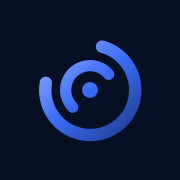
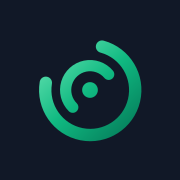
Recolour to slate + emerald
Lighter slate ground with neutral graphite cards and hairline edges, and
emerald as the single accent (dark text on emerald buttons, lighter
emerald for small text). Replaces every navy/blue value: hero light,
workflow canvas, numbers and contact bands, screenshot backdrops, ID
card band, marquee, logo, favicon and touch icon.

Claude-Session: https://claude.ai/code/session_01SNWtLnz7f1kc5WTQmbg5hk

Changed region(s): [[0.1944, 0.2222, 0.8056, 0.8056], [0.3333, 0.3333, 0.6389, 0.6389], [0.4444, 0.4444, 0.5556, 0.5556]]

diff --git a/src/styles/global.css b/src/styles/global.css
@@ -1,23 +1,23 @@
   /* ============================================================
-     TECHYOPS · deep navy
+     TECHYOPS · slate + emerald
      Display: Plus Jakarta Sans · Body: Inter · Mono: JetBrains Mono (self-hosted via Fontsource)
-     Deep navy ground, white text, one royal blue accent, gradient-edge cards.
+     Slate ground, white text, one emerald accent, gradient-edge cards.
      ============================================================ */
   :root{
-    --ink:#070F24; --panel:#0E1A38; --panel-2:#132247; --deep:#1E3A8A;
-    --line:rgba(148,170,230,0.14); --line-strong:rgba(148,170,230,0.26);
-    --text:#F2F5FF; --muted:#9AA6C8;
-    --accent:#3B6CF6; --accent-ink:#8FA8FF; /* accent-ink: blue for text on navy (AA) */
-    --accent-soft:rgba(59,108,246,0.14); --accent-line:rgba(59,108,246,0.45);
-    --on-accent:#FFFFFF;
+    --ink:#111827; --panel:#1A2232; --panel-2:#212B3D; --deep:#047857;
+    --line:rgba(255,255,255,0.08); --line-strong:rgba(255,255,255,0.16);
+    --text:#F3F4F6; --muted:#9CA3AF;
+    --accent:#10B981; --accent-ink:#34D399; /* accent-ink: emerald for small text on slate (AA) */
+    --accent-soft:rgba(16,185,129,0.14); --accent-line:rgba(16,185,129,0.42);
+    --on-accent:#04201A;
     --pos:#34D399; --pos-soft:rgba(52,211,153,0.10); --pos-line:rgba(52,211,153,0.34);
     --neg:#F87171; --neg-soft:rgba(248,113,113,0.10);
     --grid-dot:transparent; --plate-dot:transparent;
-    --float-shadow:rgba(2,6,23,0.7);
-    --shadow-sm:0 1px 2px rgba(2,6,23,.4), 0 1px 0 rgba(255,255,255,.03) inset;
-    --shadow-md:0 2px 4px rgba(2,6,23,.35), 0 18px 40px -16px rgba(2,6,23,.7);
+    --float-shadow:rgba(0,0,0,0.55);
+    --shadow-sm:0 1px 2px rgba(0,0,0,.35), 0 1px 0 rgba(255,255,255,.03) inset;
+    --shadow-md:0 2px 4px rgba(0,0,0,.3), 0 18px 40px -16px rgba(0,0,0,.6);
     /* gradient hairline edge for cards: use as border-box background under a padding-box fill */
-    --edge:linear-gradient(180deg, rgba(255,255,255,.16), rgba(59,108,246,.24) 45%, rgba(255,255,255,.04));
+    --edge:linear-gradient(180deg, rgba(255,255,255,.16), rgba(16,185,129,.16) 45%, rgba(255,255,255,.04));
     --font-display:'Plus Jakarta Sans Variable','Inter Variable',system-ui,sans-serif;
     --font-body:'Inter Variable',system-ui,sans-serif;
     --font-mono:'JetBrains Mono Variable',ui-monospace,monospace;
@@ -28,7 +28,7 @@
   *{box-sizing:border-box; margin:0; padding:0;}
   html{scroll-behavior:smooth; scroll-padding-top:84px;}
   body{
-    background:linear-gradient(180deg, #070F24 0, #0A1530 1400px, #081126 100%) var(--ink); color:var(--text);
+    background:linear-gradient(180deg, #111827 0, #0F1623 1400px, #111827 100%) var(--ink); color:var(--text);
     font-family:var(--font-body);
     font-size:16px; line-height:1.62; overflow-x:hidden;
     -webkit-font-smoothing:antialiased;
@@ -63,7 +63,7 @@
   .content-area{ min-width:0; }
   header{
     position:sticky; top:0; z-index:100;
-    background:rgba(7,15,36,.72); -webkit-backdrop-filter:saturate(180%) blur(12px); backdrop-filter:saturate(180%) blur(12px);
+    background:rgba(17,24,39,.72); -webkit-backdrop-filter:saturate(180%) blur(12px); backdrop-filter:saturate(180%) blur(12px);
     border-bottom:1px solid transparent; transition:border-color .2s;
   }
   header.is-scrolled{ border-bottom-color:var(--line); }
@@ -133,12 +133,12 @@
 
   /* ============ HERO ============ */
   .hero{ padding:28px 0 72px; position:relative; overflow:hidden; overflow:clip; }
-  .hero::before{ /* static royal-blue light behind the workflow + a faint grid that fades out */
+  .hero::before{ /* static emerald light behind the workflow + a faint grid that fades out */
     content:''; position:absolute; inset:0; z-index:0; pointer-events:none;
     background:
-      radial-gradient(55% 65% at 76% 38%, rgba(59,108,246,.30), rgba(30,58,138,.12) 45%, transparent 72%),
-      linear-gradient(rgba(148,170,230,.06) 1px, transparent 1px) 0 0 / 48px 48px,
-      linear-gradient(90deg, rgba(148,170,230,.06) 1px, transparent 1px) 0 0 / 48px 48px;
+      radial-gradient(55% 65% at 76% 38%, rgba(16,185,129,.16), rgba(20,184,166,.06) 45%, transparent 72%),
+      linear-gradient(rgba(255,255,255,.045) 1px, transparent 1px) 0 0 / 48px 48px,
+      linear-gradient(90deg, rgba(255,255,255,.045) 1px, transparent 1px) 0 0 / 48px 48px;
     -webkit-mask-image:linear-gradient(180deg,#000 0%,#000 55%,transparent 100%); mask-image:linear-gradient(180deg,#000 0%,#000 55%,transparent 100%);
   }
   .hero .wrap{ position:relative; z-index:1; }
@@ -172,7 +172,7 @@
   .demo-window{
     position:relative; overflow:hidden; border-radius:18px; border:1px solid var(--line-strong);
     border:1px solid transparent; background:linear-gradient(var(--panel), var(--panel)) padding-box, var(--edge) border-box;
-    box-shadow:0 2px 6px rgba(2,6,23,.5), 0 40px 90px -30px rgba(2,6,23,.9), 0 0 0 1px rgba(255,255,255,.02), 0 30px 120px -40px rgba(59,108,246,.45);
+    box-shadow:0 2px 6px rgba(0,0,0,.5), 0 40px 90px -30px rgba(0,0,0,.9), 0 0 0 1px rgba(255,255,255,.02), 0 30px 120px -40px rgba(16,185,129,.45);
     translate:calc(var(--px) * -4px) calc(var(--py) * -4px);
     transition:translate .9s cubic-bezier(.22,1,.36,1);
   }
@@ -195,10 +195,10 @@
   .wf{
     --amber:#F59E0B;
     position:relative; display:grid; grid-template-columns:minmax(0,1fr) minmax(0,1fr); row-gap:30px; column-gap:22px; padding:22px 18px 26px;
-    background:radial-gradient(rgba(148,170,230,.16) 1px, transparent 1.2px) 0 0 / 16px 16px, #0A1430;
+    background:radial-gradient(rgba(255,255,255,.10) 1px, transparent 1.2px) 0 0 / 16px 16px, #0F1623;
   }
   .wf-lines{ position:absolute; inset:0; width:100%; height:100%; overflow:visible; pointer-events:none; }
-  .wf-track{ fill:none; stroke:rgba(148,170,230,.28); stroke-width:1.6; stroke-dasharray:4 4; transition:opacity .4s; }
+  .wf-track{ fill:none; stroke:rgba(255,255,255,.2); stroke-width:1.6; stroke-dasharray:4 4; transition:opacity .4s; }
   .wf-fill{ fill:none; stroke:var(--accent); stroke-width:2.2; stroke-linecap:round; }
   .wf-fill.is-no{ stroke:var(--amber); }
   .wf-fill.is-yes{ stroke:var(--pos); }
@@ -246,14 +246,14 @@
 
   .wf-bubble{
     position:absolute; z-index:3; max-width:210px; padding:8px 11px; border-radius:14px; font-size:.72rem; line-height:1.4;
-    box-shadow:0 14px 34px -10px rgba(2,6,23,.8); opacity:0; transform:translateY(6px) scale(.96); pointer-events:none;
+    box-shadow:0 14px 34px -10px rgba(0,0,0,.8); opacity:0; transform:translateY(6px) scale(.96); pointer-events:none;
     transition:opacity .35s ease, transform .35s cubic-bezier(.22,1,.36,1); left:-999px; top:0;
   }
   .wf-bubble.show{ opacity:1; transform:none; }
   .b-out{ color:#fff; background:var(--accent); border-bottom-right-radius:4px; }
-  .b-in{ color:var(--text); background:#1A2B57; border:1px solid var(--line-strong); border-bottom-left-radius:4px; }
+  .b-in{ color:var(--text); background:#243045; border:1px solid var(--line-strong); border-bottom-left-radius:4px; }
   .b-in b{ display:block; font-size:.58rem; letter-spacing:.08em; text-transform:uppercase; color:#C4B5FD; }
-  .b-chip{ display:flex; align-items:center; gap:7px; color:var(--text); background:#1A2B57; border:1px solid var(--line-strong); border-radius:99px; font-weight:600; white-space:nowrap; }
+  .b-chip{ display:flex; align-items:center; gap:7px; color:var(--text); background:#243045; border:1px solid var(--line-strong); border-radius:99px; font-weight:600; white-space:nowrap; }
   .b-chip .dot{ width:7px; height:7px; border-radius:50%; background:var(--pos); }
   .b-chip .dot.is-amber{ background:var(--amber); }
   @media(max-width:640px){
@@ -1297,14 +1297,14 @@
   }
   a.bento-card:hover, .case-card:hover, .handoff-card:hover, .tool:hover{
     background:linear-gradient(180deg, rgba(255,255,255,.05), rgba(255,255,255,0) 40%) padding-box, linear-gradient(var(--panel), var(--panel)) padding-box,
-      linear-gradient(180deg, rgba(255,255,255,.26), rgba(59,108,246,.5) 45%, rgba(255,255,255,.06)) border-box !important;
+      linear-gradient(180deg, rgba(255,255,255,.26), rgba(16,185,129,.5) 45%, rgba(255,255,255,.06)) border-box !important;
   }
   .faq-list{ border-radius:var(--radius); padding:4px 22px; }
   .faq-item:last-child{ border-bottom:none; }
 
   /* product-shot framing */
-  .case-media{ position:relative; background:radial-gradient(70% 80% at 50% 100%, rgba(59,108,246,.32), transparent 70%), linear-gradient(180deg, #0C1A3E, #0E1A38) !important; }
-  .browser{ border-radius:14px 14px 0 0; border:1px solid rgba(255,255,255,.12) !important; background:#0B142E; box-shadow:0 30px 60px -24px rgba(2,6,23,.9), 0 0 0 1px rgba(2,6,23,.4); }
+  .case-media{ position:relative; background:radial-gradient(70% 80% at 50% 100%, rgba(16,185,129,.32), transparent 70%), linear-gradient(180deg, #18202F, #1A2232) !important; }
+  .browser{ border-radius:14px 14px 0 0; border:1px solid rgba(255,255,255,.12) !important; background:#151C2A; box-shadow:0 30px 60px -24px rgba(0,0,0,.9), 0 0 0 1px rgba(0,0,0,.4); }
   .browser-bar{ background:linear-gradient(180deg, rgba(255,255,255,.07), rgba(255,255,255,.02)); border-bottom-color:rgba(255,255,255,.08); }
   .browser-bar i:nth-child(1){ background:#F87171; } .browser-bar i:nth-child(2){ background:#FBBF24; } .browser-bar i:nth-child(3){ background:#34D399; }
   .browser-bar i{ opacity:.85; }
@@ -1313,10 +1313,10 @@
   /* contrast bands: numbers strip + contact */
   .proof-stats{
     border:1px solid transparent !important; border-radius:20px; padding:0 28px;
-    background:linear-gradient(135deg, #0F2357, #132B6B) padding-box, linear-gradient(135deg, rgba(255,255,255,.22), rgba(59,108,246,.35), rgba(255,255,255,.05)) border-box;
-    box-shadow:0 30px 70px -30px rgba(2,6,23,.9);
+    background:linear-gradient(135deg, #1A2232, #212B3D) padding-box, linear-gradient(135deg, rgba(255,255,255,.22), rgba(16,185,129,.35), rgba(255,255,255,.05)) border-box;
+    box-shadow:0 30px 70px -30px rgba(0,0,0,.9);
   }
-  .contact{ border-top:none; padding-top:96px; padding-bottom:96px; margin-top:24px; background:linear-gradient(180deg, #0B1A40 0%, #0F2357 100%); border-top:1px solid rgba(148,170,230,.16); }
+  .contact{ border-top:none; padding-top:96px; padding-bottom:96px; margin-top:24px; background:linear-gradient(180deg, #151C2A 0%, #1A2232 100%); border-top:1px solid rgba(255,255,255,.16); }
   .sec-kicker{ color:var(--accent-ink) !important; }
 
   /* trusted-by marquee */
@@ -1325,7 +1325,7 @@
   .marquee-track{ display:flex; width:max-content; animation:marquee 32s linear infinite; }
   .marquee:hover .marquee-track{ animation-play-state:paused; }
   .marquee .logo-wall{ flex-wrap:nowrap; gap:56px; padding-right:56px; }
-  .marquee .logo-wall li{ white-space:nowrap; color:#8D9AC2; font-size:1.15rem; }
+  .marquee .logo-wall li{ white-space:nowrap; color:#9CA3AF; font-size:1.15rem; }
   .marquee .logo-wall li:nth-child(1){ font-weight:800; letter-spacing:.02em; text-transform:uppercase; font-size:.98rem; }
   .marquee .logo-wall li:nth-child(2){ font-family:Georgia, 'Times New Roman', serif; font-weight:400; letter-spacing:.18em; text-transform:uppercase; font-size:.95rem; }
   .marquee .logo-wall li:nth-child(3){ font-weight:700; letter-spacing:-.04em; }
